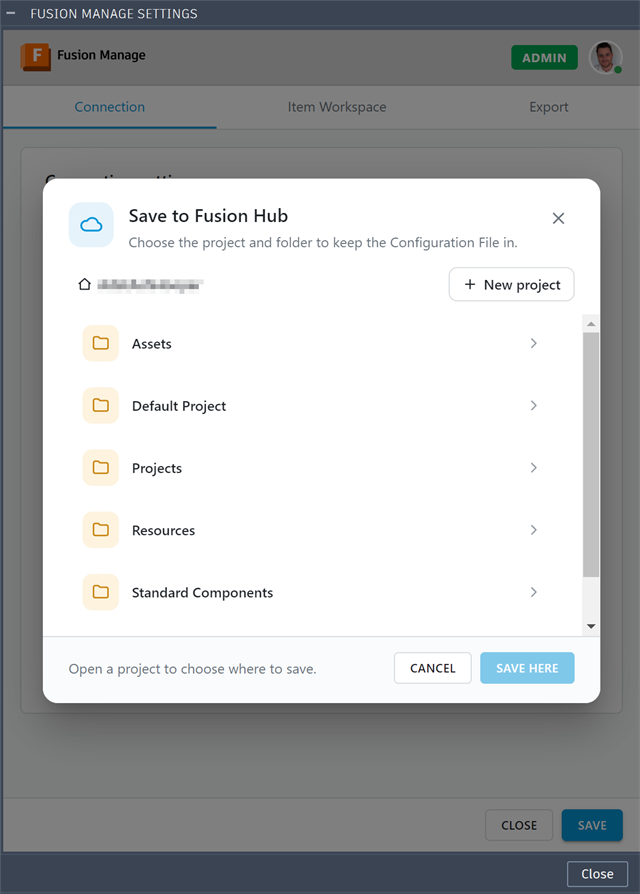
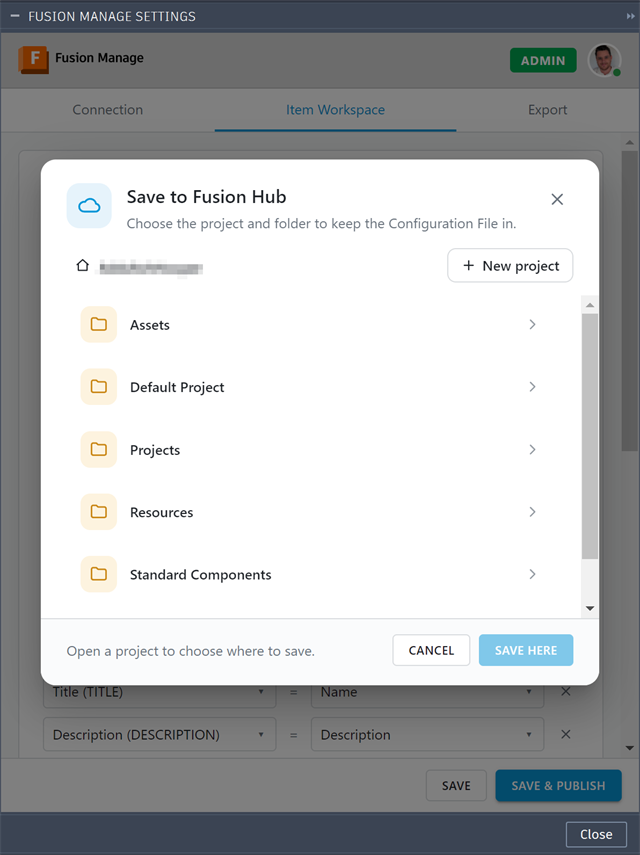
Let a Hub Admin set up from the hub's Configuration File, and document both routes
The first-setup wizard now asks whether this is a new setup or the hub is already set up. Already set up opens the hub folder picker to choose the Configuration File another Hub Admin published, skipping the APS app and tenant steps.

The installation guide starts with Admin Route and Member Route buttons, explains giving members Reader access to the project that holds the file, and walks a member through finding the file and signing in, with new screenshots.

diff --git a/src/ui/web/settings/index.html b/src/ui/web/settings/index.html
@@ -37,55 +37,71 @@
           <h2>Set up Fusion Manage</h2>
           <span class="hub-pill" data-hub-name></span>
         </header>
-        <p class="muted">Sign-in needs an app of your own on the Autodesk Platform Services (APS) portal. Follow these steps once.</p>
-        <p class="hint">A Hub Admin may have saved this hub's setup already. <button id="wiz-find" class="link-btn" type="button">Find the Configuration File</button></p>
-        <ol class="wiz-steps">
-          <li class="wiz-step">
-            <span class="wiz-num">1</span>
-            <div class="wiz-body">
-              <strong>Create an APS app</strong>
-              <p class="hint">Create it on the APS portal with the settings below. <button id="wiz-guide" class="link-btn" type="button">Open the setup guide</button></p>
-              <div class="app-types">
-                <div class="req-row"><strong>Application Type</strong><span>Desktop, Mobile, Single-Page Web App</span></div>
-                <div class="req-row"><strong>Grant Type</strong><span>Authorization Code with PKCE</span></div>
-                <div class="req-row"><strong>API Access</strong><span class="pills"><span class="pill">Manufacturing Data Model API</span><span class="pill">Identity API</span></span></div>
+        <p class="muted">Is this hub already set up, or is this the first time? Choose how to start.</p>
+        <div class="wiz-choice">
+          <button id="wiz-opt-new" class="wiz-opt active" type="button" aria-pressed="true">
+            <strong>New setup</strong>
+            <span>Make an APS app and connect it</span>
+          </button>
+          <button id="wiz-opt-file" class="wiz-opt" type="button" aria-pressed="false">
+            <strong>Already set up</strong>
+            <span>Use the hub's Configuration File</span>
+          </button>
+        </div>
+        <div id="wiz-file" class="wiz-file" hidden>
+          <p>Another Hub Admin has already set this hub up and saved the setup as a Configuration File in the Fusion Hub. Choose that file to use the same setup. You do not need an APS app of your own or to enter a tenant.</p>
+          <button id="wiz-file-find" class="btn" type="button">Find Configuration File</button>
+        </div>
+        <div id="wiz-new" class="wiz-new">
+          <p class="hint">Sign-in needs an app of your own on the Autodesk Platform Services (APS) portal. Follow these steps once.</p>
+          <ol class="wiz-steps">
+            <li class="wiz-step">
+              <span class="wiz-num">1</span>
+              <div class="wiz-body">
+                <strong>Create an APS app</strong>
+                <p class="hint">Create it on the APS portal with the settings below. <button id="wiz-guide" class="link-btn" type="button">Open the setup guide</button></p>
+                <div class="app-types">
+                  <div class="req-row"><strong>Application Type</strong><span>Desktop, Mobile, Single-Page Web App</span></div>
+                  <div class="req-row"><strong>Grant Type</strong><span>Authorization Code with PKCE</span></div>
+                  <div class="req-row"><strong>API Access</strong><span class="pills"><span class="pill">Manufacturing Data Model API</span><span class="pill">Identity API</span></span></div>
+                </div>
               </div>
-            </div>
-          </li>
-          <li class="wiz-step">
-            <span class="wiz-num">2</span>
-            <div class="wiz-body">
-              <strong>Add the callback URL</strong>
-              <p class="hint">On your app's page, add this as a Callback URL, and save the app.</p>
-              <span class="inline-row">
-                <code id="wiz-callback" class="wiz-callback"></code>
-                <button id="wiz-copy" class="btn btn-secondary" type="button">Copy</button>
-              </span>
-            </div>
-          </li>
-          <li class="wiz-step">
-            <span class="wiz-num">3</span>
-            <div class="wiz-body">
-              <strong>Enter the Client ID</strong>
-              <p class="hint">Copy it from your app's page on the APS portal.</p>
-              <label class="wiz-field">
-                <input id="wiz-client-id" type="text" autocomplete="off" spellcheck="false" placeholder="Paste the Client ID of your app">
-              </label>
-            </div>
-          </li>
-          <li class="wiz-step">
-            <span class="wiz-num">4</span>
-            <div class="wiz-body">
-              <strong>Sign in</strong>
-              <p class="hint">Saves the Client ID and opens the Autodesk sign-in in your browser.</p>
-              <div class="row">
-                <button id="wiz-signin" class="btn" type="button" disabled>Save and sign in</button>
+            </li>
+            <li class="wiz-step">
+              <span class="wiz-num">2</span>
+              <div class="wiz-body">
+                <strong>Add the callback URL</strong>
+                <p class="hint">On your app's page, add this as a Callback URL, and save the app.</p>
+                <span class="inline-row">
+                  <code id="wiz-callback" class="wiz-callback"></code>
+                  <button id="wiz-copy" class="btn btn-secondary" type="button">Copy</button>
+                </span>
               </div>
-            </div>
-          </li>
-        </ol>
-        <button id="wiz-error" class="validation-bar" type="button" aria-haspopup="dialog" hidden></button>
-        <span id="wiz-msg" class="muted"></span>
+            </li>
+            <li class="wiz-step">
+              <span class="wiz-num">3</span>
+              <div class="wiz-body">
+                <strong>Enter the Client ID</strong>
+                <p class="hint">Copy it from your app's page on the APS portal.</p>
+                <label class="wiz-field">
+                  <input id="wiz-client-id" type="text" autocomplete="off" spellcheck="false" placeholder="Paste the Client ID of your app">
+                </label>
+              </div>
+            </li>
+            <li class="wiz-step">
+              <span class="wiz-num">4</span>
+              <div class="wiz-body">
+                <strong>Sign in</strong>
+                <p class="hint">Saves the Client ID and opens the Autodesk sign-in in your browser.</p>
+                <div class="row">
+                  <button id="wiz-signin" class="btn" type="button" disabled>Save and sign in</button>
+                </div>
+              </div>
+            </li>
+          </ol>
+          <button id="wiz-error" class="validation-bar" type="button" aria-haspopup="dialog" hidden></button>
+          <span id="wiz-msg" class="muted"></span>
+        </div>
       </div>
 
       <div id="login-card" class="card login-card">

diff --git a/src/ui/web/settings/js/settings.js b/src/ui/web/settings/js/settings.js
@@ -191,11 +191,16 @@
     }
   }
 
+  /** Switch off (or on) every button that starts or changes the read of a Configuration File, while one is read. */
+  function setFileButtons(disabled) {
+    ['member-find', 'wiz-file-find', 'cfg-check', 'hub-file-change'].forEach(function (id) { $(id).disabled = disabled; });
+  }
+
   /** Read the Configuration File ``file`` (``{project_id, item_id, name}``) and make it this hub's settings. */
   function useHubConfig(file) {
     if (usingFile) return;
     usingFile = true;
-    ['member-find', 'cfg-check', 'hub-file-change'].forEach(function (id) { $(id).disabled = true; });
+    setFileButtons(true);
     ns.progress.show('Reading the Configuration File', 'Reading ' + (file.name || 'the file') + ' from the hub. This takes a few seconds.');
     stopUseWait();
     stopUseWait = bridge.expect(USE_WAIT_MS, function () { onUseHubConfig({ ok: false, error: 'The hub did not answer in time. Try again.' }); });
@@ -207,7 +212,7 @@
     if (result.pending) return;   // only the start: Python pushes the outcome when it is done
     stopUseWait();
     usingFile = false;
-    ['member-find', 'cfg-check', 'hub-file-change'].forEach(function (id) { $(id).disabled = false; });
+    setFileButtons(false);
     if (!result.ok) {
       ns.progress.fail('Could not read the Configuration File', result.message || 'The Configuration File could not be read.');
       if (!hubFile) { readFailed = true; showWizard(wizardNeeded); }
@@ -227,7 +232,7 @@
     bridge.on('use_hub_config', onUseHubConfig);
     bridge.on('use_hub_config_status', onUseHubConfig);
     $('member-find').addEventListener('click', findFile);
-    $('wiz-find').addEventListener('click', findFile);
+    $('wiz-file-find').addEventListener('click', findFile);
     $('first-find').addEventListener('click', openMemberPicker);
     $('hub-file-change').addEventListener('click', findFile);
     $('cfg-check').addEventListener('click', checkFile);
@@ -407,7 +412,23 @@
     try { document.execCommand('copy'); } finally { box.remove(); }
   }
 
+  const SETUP_OPTIONS = [['wiz-opt-new', false], ['wiz-opt-file', true]];   // [button id, whether it sets up from a Configuration File]
+
+  /** The first setup of a Hub Admin starts as a new setup, or from the Configuration File another Hub Admin saved. */
+  function chooseSetup(useFile) {
+    $('wiz-new').hidden = useFile;
+    $('wiz-file').hidden = !useFile;
+    SETUP_OPTIONS.forEach(function (option) {
+      const chosen = option[1] === useFile;
+      $(option[0]).classList.toggle('active', chosen);
+      $(option[0]).setAttribute('aria-pressed', String(chosen));
+    });
+  }
+
   function initWizard() {
+    SETUP_OPTIONS.forEach(function (option) {
+      $(option[0]).addEventListener('click', function () { chooseSetup(option[1]); });
+    });
     [$('wiz-guide'), $('conn-guide')].forEach(function (button) {
       button.addEventListener('click', function () { bridge.send('open_url', { url: GUIDE_URL }); });
     });

diff --git a/src/ui/web/settings/css/settings.css b/src/ui/web/settings/css/settings.css
@@ -45,6 +45,15 @@
 .hub-pill { flex: none; max-width: 50%; padding: 3px 10px; overflow: hidden; text-overflow: ellipsis; white-space: nowrap;
   border-radius: 3px; background: var(--accent); font-size: 11px; font-weight: 700; letter-spacing: 0.06em; text-transform: uppercase; color: #fff; }
 .wizard > .muted { margin: 0 0 18px; padding-bottom: 14px; border-bottom: 1px solid var(--border); font-size: 12px; line-height: 1.4; }
+/* First setup: new setup, or use a Configuration File a Hub Admin saved already. */
+.wiz-choice { display: grid; grid-template-columns: 1fr 1fr; gap: 8px; margin: 0 0 16px; }
+.wiz-opt { display: flex; flex-direction: column; gap: 2px; padding: 10px 12px; text-align: left; font: inherit; color: var(--text); cursor: pointer;
+  border: 1px solid var(--border); border-radius: 6px; background: var(--surface); }
+.wiz-opt span { font-size: 12px; color: var(--muted); }
+.wiz-opt:hover { border-color: var(--accent); }
+.wiz-opt.active { border-color: var(--accent); box-shadow: inset 0 0 0 1px var(--accent); }
+.wiz-file p { margin: 0 0 12px; line-height: 1.45; }
+.wiz-new > .hint { margin: 0 0 14px; }
 .wiz-steps { list-style: none; margin: 0; padding: 0; display: flex; flex-direction: column; }
 .wiz-step { position: relative; display: flex; gap: 12px; align-items: flex-start; padding-bottom: 22px; }
 .wiz-step:last-child { padding-bottom: 0; }

diff --git a/docs/getting-started/installation.md b/docs/getting-started/installation.md
@@ -4,19 +4,7 @@ title: Installation and Authentication
 
 # Installation and Authentication
 
-**What you'll do here:** install the add-in in Fusion and sign in to Fusion Manage. Allow about 15 minutes, plus time for an administrator if your organisation has no APS application yet.
-
-## Quick steps
-
-1. **Install:** download the latest release zip, unzip it, and add the folder in Fusion ([stage 1](#1-install-the-add-in)).
-2. **Get a Client ID:** ask your administrator for the organisation's Client ID, or create an APS application yourself ([stage 2](#2-get-a-client-id)).
-3. **Connect:** open **Preferences** and follow the setup wizard: add the callback URL, enter the Client ID and sign in (approve access in your browser), then enter your tenant ([stage 3](#3-configure-the-connection)).
-
-| Stage | What you do | Who |
-|---|---|---|
-| [1. Install the add-in](#1-install-the-add-in) | Load the add-in into Fusion | Each user |
-| [2. Get a Client ID](#2-get-a-client-id) | Obtain the **Client ID** that identifies the add-in | Once per organisation (or per developer) |
-| [3. Configure the connection](#3-configure-the-connection) | Follow the setup wizard: Client ID, sign in, then tenant | Each user, or import a shared file |
+**What you'll do here:** install the add-in in Fusion and sign in to Fusion Manage. Install it first, then choose your route: **Admin Route** for the Hub Admin who sets it up, **Member Route** for everyone else.
 
 ---
 
@@ -30,9 +18,21 @@ The add-in supports Windows and macOS. Once it is running, an **Export** panel a
 
 ![Scripts and Add-Ins dialog with the add-in running](../images/scripts-and-addins.png){ width="800" height="515" }
 
+### Choose your route
+
+[Admin Route](#2-get-a-client-id){ .md-button .md-button--primary }
+[Member Route](#members-connect-with-the-hubs-configuration-file){ .md-button }
+
+**Admin Route** is for the Hub Admin who sets the add-in up for the hub, once. **Member Route** is for everyone else in the hub, once a Hub Admin has published the setup.
+
+!!! important "Has another Hub Admin already set this up?"
+    Then do the **Member Route**, even if you are a Hub Admin yourself. The hub only needs one setup, and the Configuration File already holds it, so you do not need your own APS app or tenant. If the setup wizard opens, choose **Already set up**, then click **Find Configuration File** and pick the file. You can still change the settings afterwards as a Hub Admin, and publish them again with **Save & Publish**.
+
 ---
 
 ## 2. Get a Client ID
+
+*Admin Route. Members skip to [the Member Route](#members-connect-with-the-hubs-configuration-file).*
 
 The add-in signs in through Autodesk Platform Services (APS), so it needs an APS application. The application's **Client ID** identifies the add-in when you sign in. This is done on the APS website, not in Fusion.
 
@@ -138,13 +138,20 @@ An application of this type has no client secret that you need. Never type one i
 
 ## 3. Configure the connection
 
+*Admin Route.*
+
 Open **Manage ▸ Item Management ▸ Administration ▸ Preferences**. Until a Client ID is saved, the panel shows a setup wizard instead of the sign-in card. It walks you through the connection in two parts: the app and Client ID, then your tenant.
 
 ### 3.1 Set up Fusion Manage
 
-The first screen, **Set up Fusion Manage**, has four steps.
+The first screen, **Set up Fusion Manage**, asks how to start:
 
-![Preferences, Set up Fusion Manage wizard](../images/setup-wizard.png){ width="640" height="888" }
+- **New setup** shows the four steps below. Use it when nobody has set this hub up yet.
+- **Already set up** is for a hub another Hub Admin has already set up and published. Click **Find Configuration File** and choose the file ([Member Route](#members-connect-with-the-hubs-configuration-file)). You skip the steps below and the tenant step.
+
+The steps for a new setup:
+
+![Preferences, Set up Fusion Manage wizard](../images/setup-wizard.png){ width="640" height="849" }
 
 1. **Create an APS app.** If you have not done so, follow [stage 2](#2-get-a-client-id). The wizard lists the settings the app needs: **Desktop, Mobile, Single-Page Web App**, grant type **Authorization Code with PKCE**, and the **Manufacturing Data Model API** and **Identity API**. **Open the setup guide** opens Autodesk's guide to creating an app.
 2. **Add the callback URL.** On your app's page in the APS portal, add the callback URL the wizard shows and save the app. **Copy** puts it on your clipboard. With the default port it is:
@@ -189,7 +196,7 @@ The tenant can only be letters, digits and hyphens, never a whole address. The h
 
 Whichever way you filled it in, click **Save and finish** to keep it. **Find** only fills in the field; it does not save.
 
-Anyone who is not a Hub Admin does not see this step. They are asked to find the hub's Configuration File instead ([below](#sharing-a-setup-with-colleagues)).
+Anyone who is not a Hub Admin does not see this step. They are asked to find the hub's Configuration File instead ([below](#members-connect-with-the-hubs-configuration-file)).
 
 ### 3.3 Change the connection later
 
@@ -202,8 +209,7 @@ To change a setting, as a Hub Admin:
 
 1. Open **Preferences** and go to the **Connection** tab.
 2. Edit the field. If you change the **Callback port**, the callback URL shown under it updates as you type.
-3. Click **Save**. The settings are checked first, and a problem is shown instead of saving.
-4. When the save passes, you are asked whether to share the settings with the hub. Choose **Save to Fusion Hub**, so your colleagues get the change ([how it works](#save-to-fusion-hub)).
+3. Click **Save** to keep the change on this computer, or **Save & Publish** to also share it with the hub, so your colleagues get the change ([how it works](#save-to-fusion-hub)). The settings are checked first, and a problem is shown instead of saving. A **Save successful** window confirms a save.
 
 Two changes need a follow-up:
 
@@ -224,26 +230,80 @@ The tab shows the callback URL it will use. It must be registered on your APS ap
 **Save** puts the settings on your own computer only. **Save & Publish** saves them and also stores them in the hub, as a Configuration File, so the other people in the hub can use the same setup without entering it themselves. Only a Hub Admin sees **Save & Publish**.
 
 1. Click **Save & Publish**. Once the settings pass validation and are saved on this computer, a **Save to Fusion Hub** window opens, showing the hub's projects and folders.
-2. Open a project, then a folder in it, where the hub's members can read files. **New project** (at the top of the hub) and **New folder** (inside a project) make one if you need it.
+2. Open a project, then a folder in it, where the hub's members can read files. **New project** (at the top of the hub) and **New folder** (inside a project) make one if you need it. A project of its own is best ([see below](#give-your-members-access-to-the-file)).
 3. Click **Save here**. The add-in uploads `Fusion-Manage-Item-Management-config.json` to that folder and tells you which folder it went to.
 
-![Save to Fusion Hub window](../images/save-to-hub.png){ width="640" height="894" }
+![Save to Fusion Hub window](../images/save-to-hub.png){ width="640" height="855" }
+
+#### Give your members access to the file
+
+It is recommended to **create a new project** for the Configuration File, with **New project**, and save it there. A project of its own keeps the file out of the way of design data, and lets you control who can see it in one place. Saving the file does not give anyone access to it. Members can only find it, read it and download it if they have access, so set that up once, straight after the first **Save & Publish**:
+
+1. In Fusion, open the project (or the folder) the file is in, and go to its **Members and Permissions** tab.
+2. Make sure everyone who needs the add-in is there with **Reader** access. **Reader** is enough to view and download the file, and members never need to change it. Use **Add member** to add people by email, or a group to add several at once. A group that already holds your members, such as **Everyone (System Group)**, is the quickest way, if it suits who may see the file.
+3. Check the **Permission level** of each person or group. Anyone not listed, or with no access, will not see the file when they look for it.
+
+![Members and Permissions of the project holding the Configuration File, with Everyone as a Reader](../images/hub-permissions.png){ width="1000" height="251" }
+
+!!! tip "Keep editing for Hub Admins"
+    Only the Hub Admins who publish need to be able to add files to the folder. Everyone else can be a **Reader**.
 
 What to know:
 
-- **It holds your setup, not your sign-in.** The file has the tenant, workspaces, field mappings and exports. It never holds sign-in tokens.
+- **It holds your setup, not anyone's sign-in.** The file has the tenant, workspaces, field mappings, exports, and the Client ID with its callback port and scopes, so members can sign in without making an APS app. It never holds sign-in tokens or a client secret.
 - **The upload uses your Fusion session.** It needs no extra permission, but you must be allowed to add files to the folder you pick. If not, the add-in says so.
 - **It is for the active hub.** A file saved from one hub is refused by another.
 - **Publish again after a change.** Each Save & Publish uploads the file again to the folder you choose. Choose the folder your colleagues already use, so they keep reading the same file.
-- **Colleagues find it once.** A member who is not a Hub Admin is asked to **Find Configuration File** and picks the file in the hub. After that, their add-in reads it again each time Preferences opens, so a change you share reaches them without them doing anything.
+- **Members find it once.** After that, their add-in reads it again each time Preferences opens, so a change you publish reaches them without them doing anything ([what members do](#members-connect-with-the-hubs-configuration-file)).
 
-### Sharing a setup with colleagues
+### Members: connect with the hub's Configuration File
 
-Each Fusion hub has its own settings, so switching hubs in Fusion switches the settings too. Only a **Hub Admin** of the hub can change them. When you open **Preferences** the add-in checks your role in the active hub.
+*Member Route.*
 
-- **Hub Admin**: click **Save & Publish**. Once the settings pass validation and are saved on this computer, you are asked for a project and folder in the hub, and the Configuration File is stored there (`Fusion-Manage-Item-Management-config.json`). It never contains sign-in tokens.
-- **Everyone else**: the add-in asks you to find the hub's Configuration File. Click **Find Configuration File**, pick the file in the hub, and its tenant, workspaces, field mappings and exports become your settings, read-only. You still sign in with your own Client ID. The file is read again each time Preferences opens.
-- A file saved from another hub is refused, and files over 1 MB or that are not an MfgToFm configuration are rejected.
+Each Fusion hub has its own settings, so switching hubs in Fusion switches the settings too. Only a **Hub Admin** of the hub can change them. When you open **Preferences** the add-in checks your role in the active hub. If you are a member, not a Hub Admin, you do not create an APS app, copy a Client ID or enter a tenant. A Hub Admin has done that once and published the result, and you use it.
+
+**Before you start:** a Hub Admin must have used **Save & Publish** ([above](#save-to-fusion-hub)) so the file is in the hub, and given you **Reader** access to the project it is in ([how](#give-your-members-access-to-the-file)). If you cannot find the file, ask a Hub Admin where it is and whether you have access.
+
+#### The route
+
+1. **Install the add-in.** Follow [stage 1](#1-install-the-add-in). It is the same for everyone.
+2. **Make the right hub active.** In Fusion, open the hub the setup was published for. A file from another hub is refused.
+3. **Open Preferences.** Choose **Manage ▸ Item Management ▸ Administration ▸ Preferences**. The panel shows **Find your Configuration File**, with the hub's name. Click **Find Configuration File**.
+4. **Open the folder.** The **Find the Configuration File** window lists the hub's projects. Open the project and folders the Hub Admin saved the file in. **Use this file** stays greyed out until you choose a file.
+
+    ![Find the Configuration File window, showing the hub's projects](../images/member-find-file.png){ width="640" height="842" }
+
+5. **Choose the file.** Click `Fusion-Manage-Item-Management-config.json`. The window names it at the bottom (**Selected …**). Click **Use this file**.
+
+    ![The Configuration File chosen in a project folder](../images/member-select-file.png){ width="640" height="853" }
+
+6. **Sign in.** The add-in reads the file and the panel changes to **Sign in to Fusion Manage**, with the hub's name. Click **Sign in**, approve access in your browser and return to Fusion. You sign in with your own Autodesk account ([how sign-in works](#how-sign-in-works)).
+
+    ![Sign in to Fusion Manage, shown once the file has been read](../images/member-sign-in.png){ width="640" height="844" }
+
+7. **Check the Configuration tab.** Once you are signed in, the panel opens on the **Configuration** tab. It shows the file you are using and whether it is up to date. Your role shows as **Member**.
+
+    ![The Configuration tab of a member, showing the file in use](../images/member-configuration.png){ width="640" height="847" }
+
+You are ready to use the add-in. There is nothing else to set up.
+
+#### How it works
+
+- **The file is the setup.** It holds the tenant, workspaces, field mappings, exports, and the Client ID with its callback port and scopes. The add-in takes these from it, so you do not enter them. It never holds sign-in tokens, so you still sign in yourself.
+- **Your settings are read-only.** The **Connection**, **Item Workspace** and **Export** tabs show what the file defines, with fields greyed out and the note "These settings come from the hub's Configuration File. Only a Hub Admin can change them." Members do not see **Save & Publish**.
+- **It stays up to date.** The file is read again each time **Preferences** opens, so a change a Hub Admin publishes reaches you without you doing anything. The status at the top of the **Configuration** tab says where you stand:
+
+    | Status | Meaning |
+    |---|---|
+    | **Up to date** | You are using the latest file in the hub. It shows when it was read or checked. |
+    | **Checking for updates…** | The add-in is asking the hub if the file has changed. |
+    | **Updated to the latest version** | The file had changed, and you now use the new one. It names who changed it. |
+    | **Could not check for updates** | The check got no answer. The add-in keeps the file you have, so try again in a moment. |
+
+- **Check for updates** asks the hub at once, without closing Preferences. **Change file** lets you pick a different file, for example if the Hub Admin moved it to another folder.
+- **The file's details.** The card shows the file's name and project, **Last updated in the hub**, **Updated by**, its **Version** in the hub, and **Last read by you**.
+- **Your own Client ID is kept.** If you already had a Client ID, the add-in keeps it, and your sign-in, and takes only the setup from the file.
+- **Files that are refused:** one saved from another hub, one over 1 MB, or one that is not a Fusion Manage Item Management configuration. A file with no Client ID is also refused, so ask the Hub Admin to publish again.
 
 ---
 
